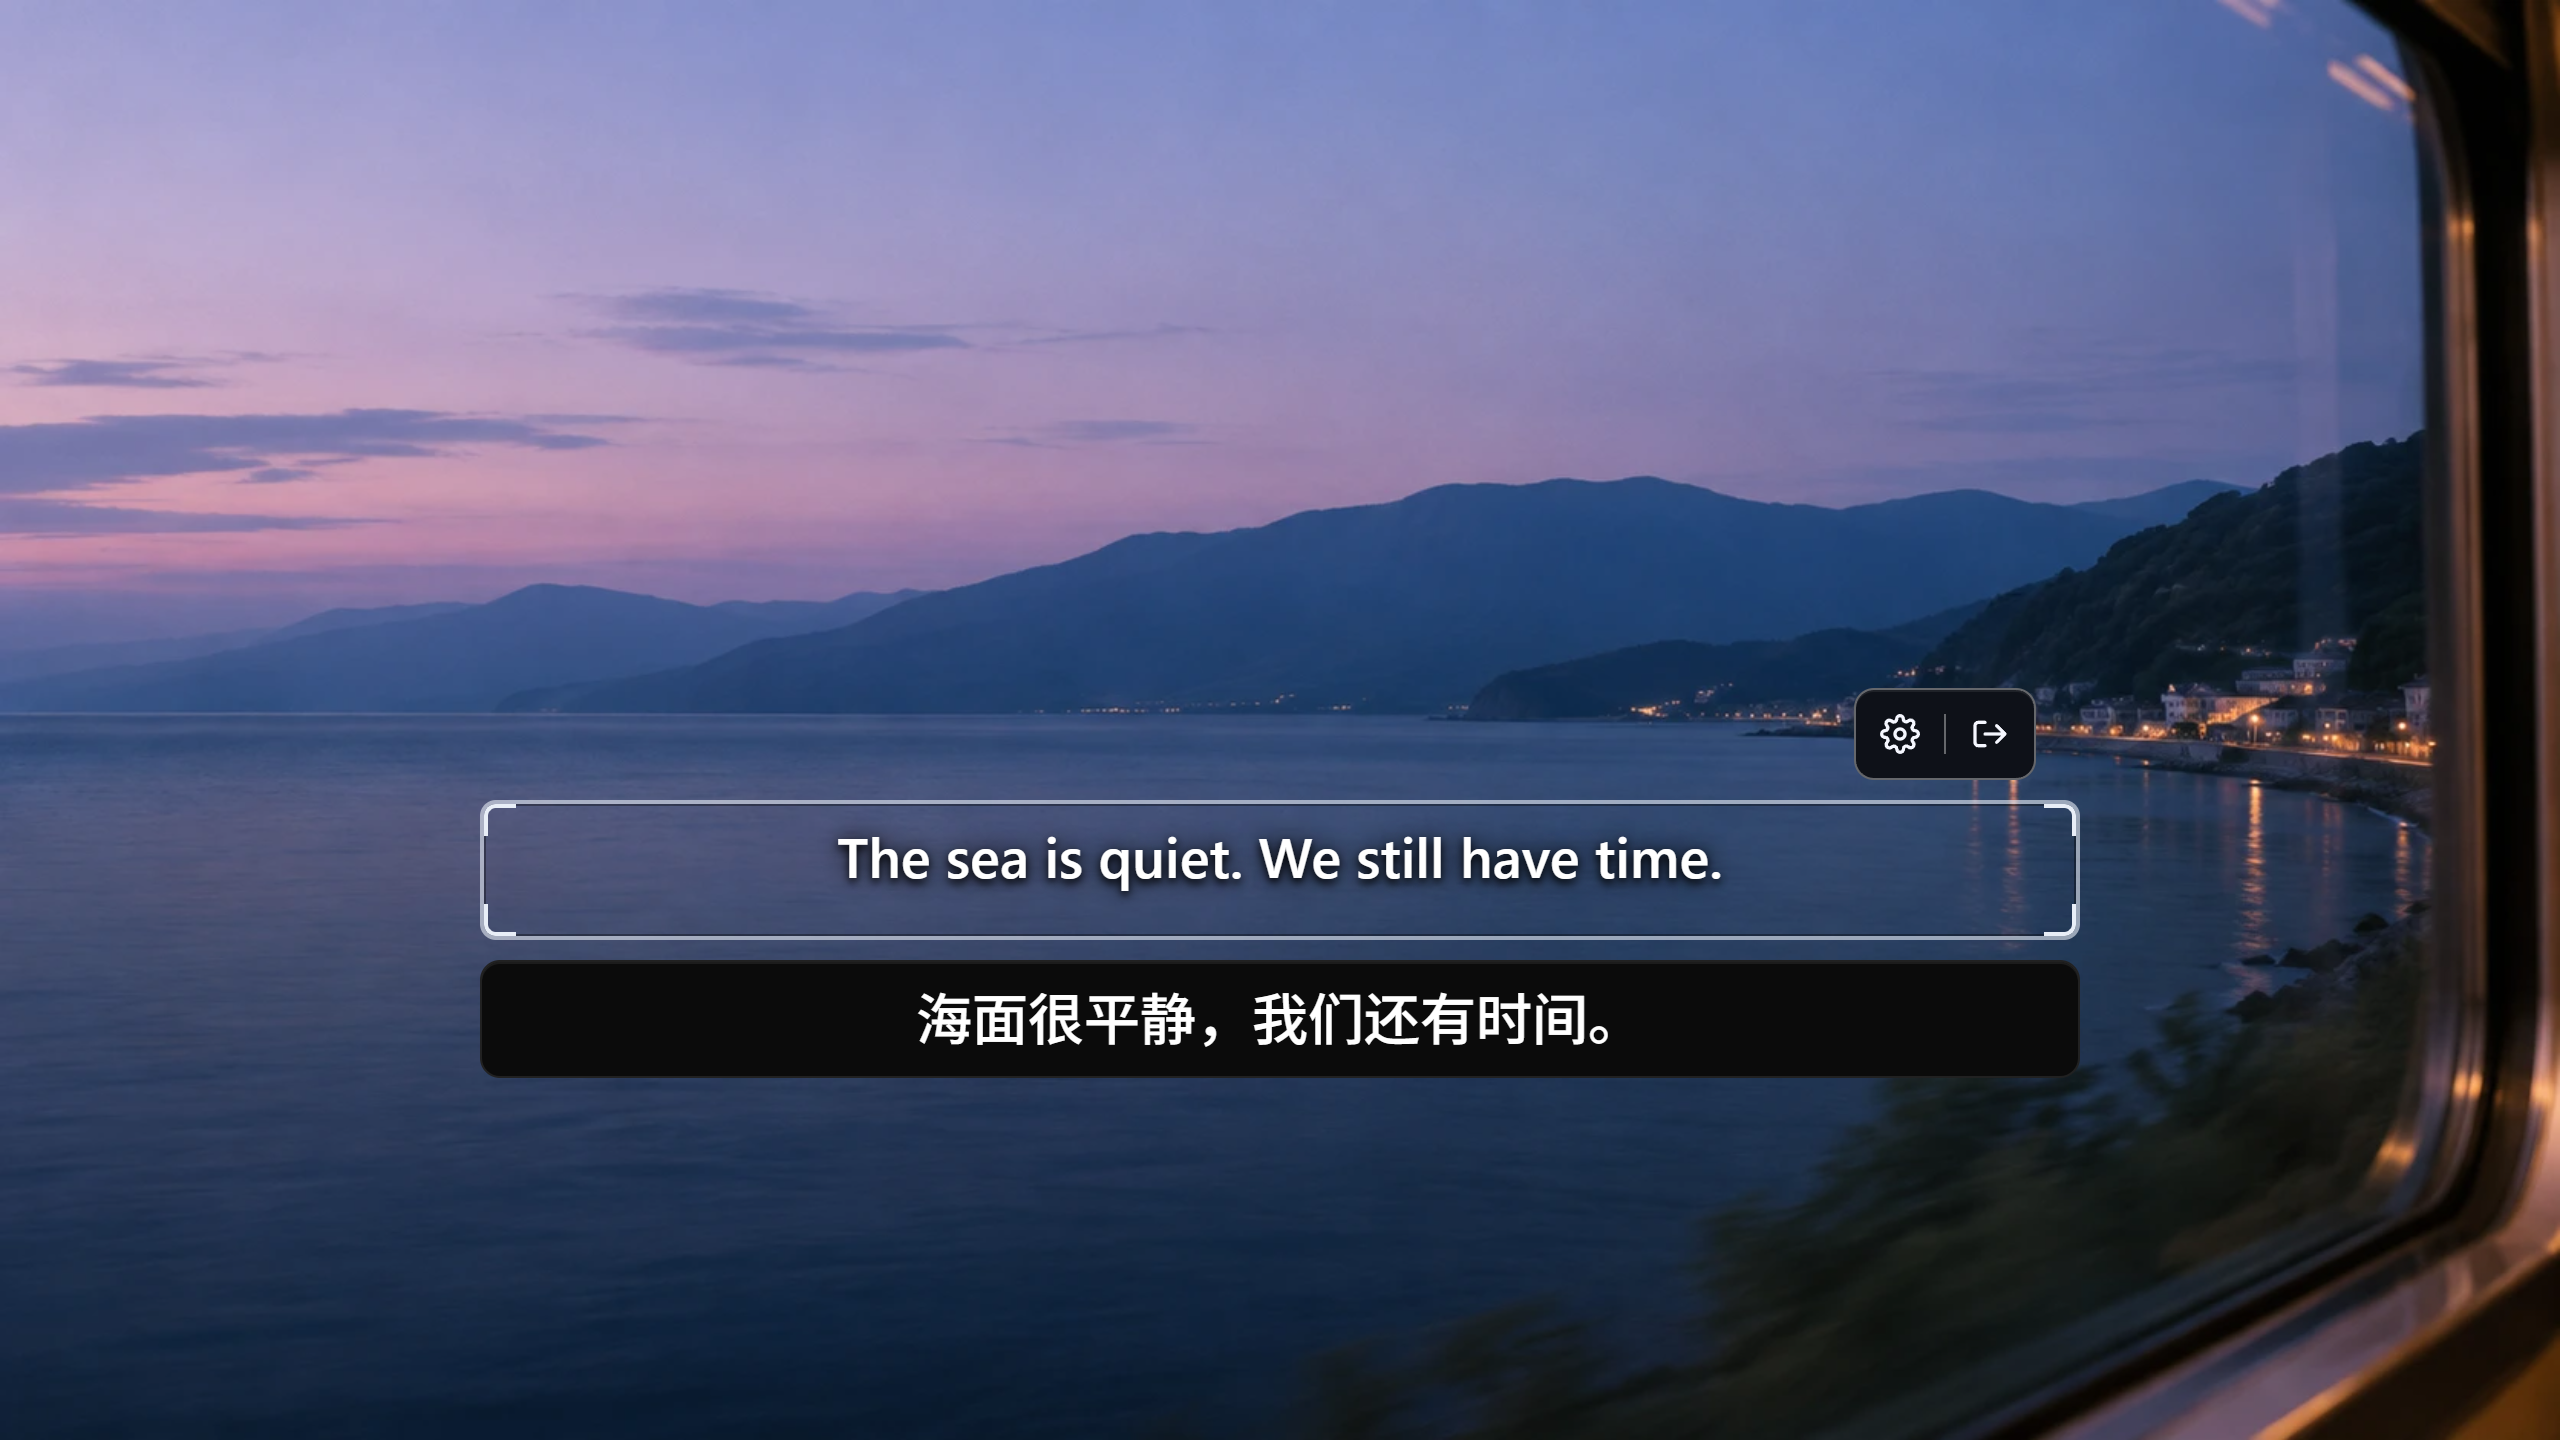
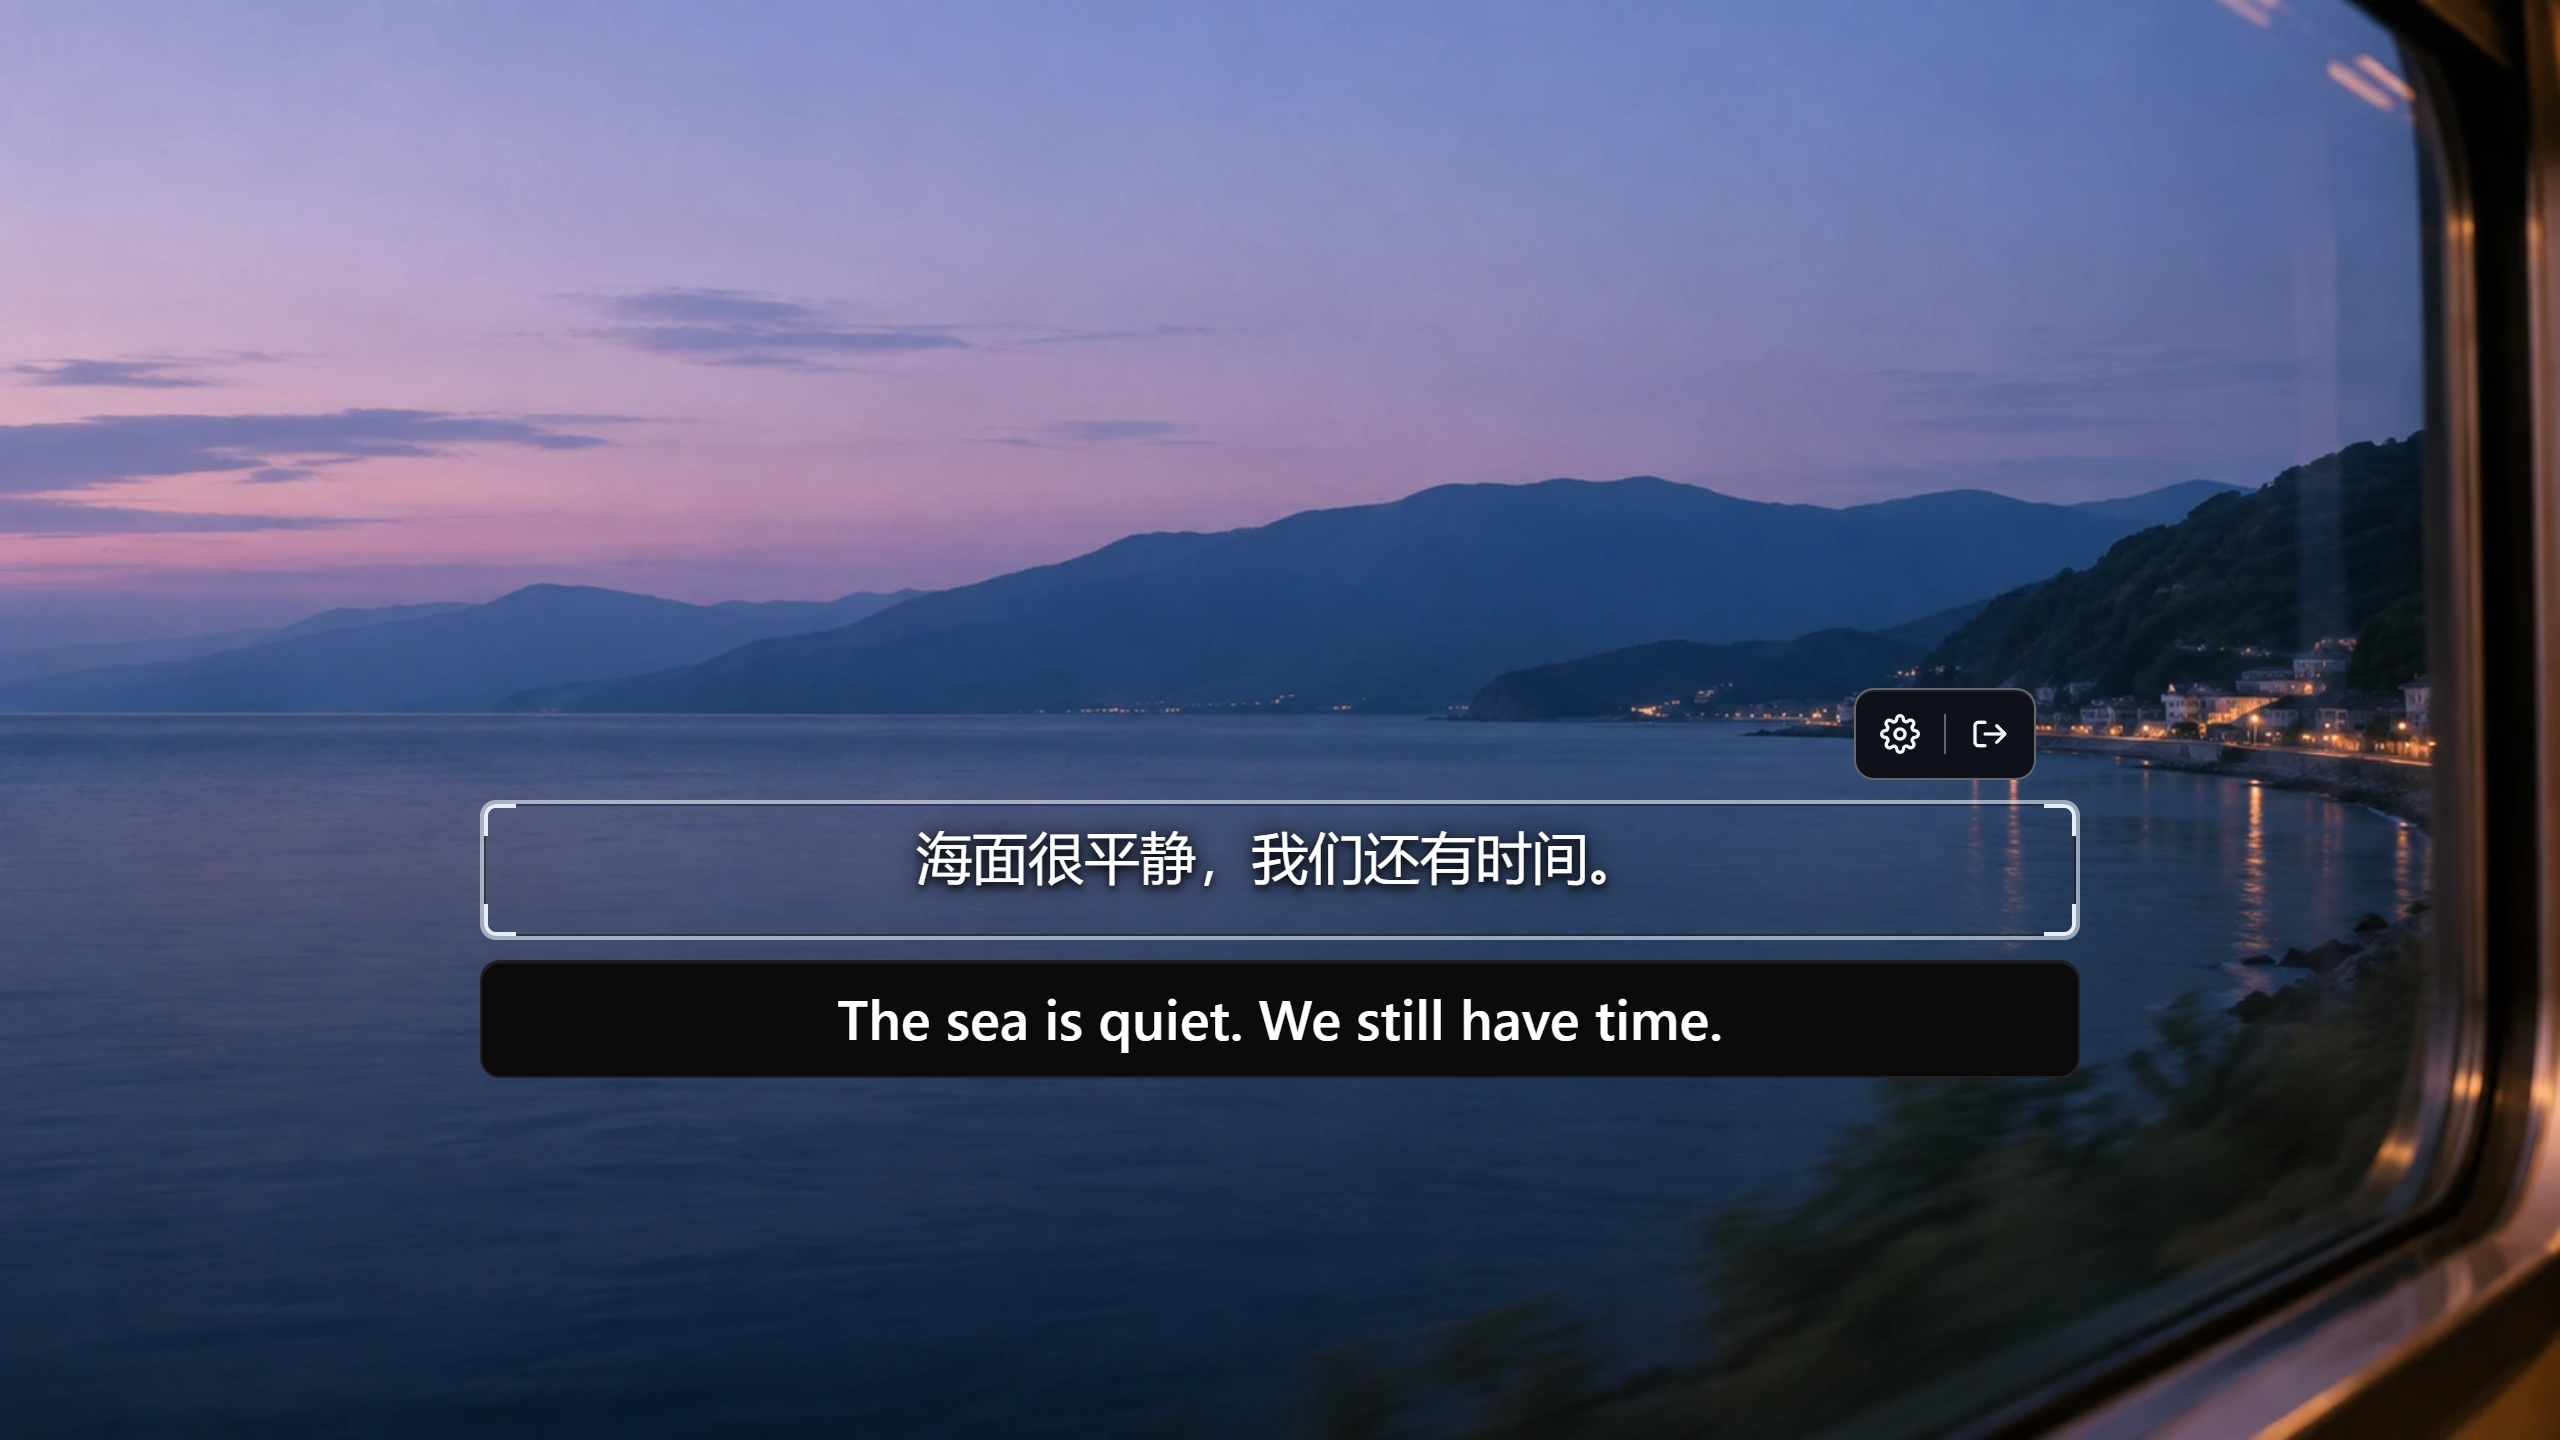
docs(store): match subtitle examples to each listing language

Changed region(s): [[0.3125, 0.5625, 0.6875, 0.625], [0.3125, 0.6875, 0.6875, 0.75]]

diff --git a/docs/store-listing/README.md b/docs/store-listing/README.md
@@ -20,8 +20,9 @@ and events. It preserves app dimensions and shows the Store update controls.
 It does not alter the app or an installed profile. These are frontend captures,
 not native capture/OCR/translation test evidence. `capture.json` records the
 version and sample text. `coast.webp` is an original imagegen-created example
-film still; the English source line and Chinese translation are authored sample
-content. UI, selection, and overlay controls come from application code.
+film still. The authored sample translates Chinese to English for the English
+listing, and English to Chinese for the Chinese listing. UI, selection, and
+overlay controls come from application code.
 
 Check each language visually after regeneration. Keep text sharp, retain the
 captured aspect ratio, and avoid additional marketing copy or logos inside
